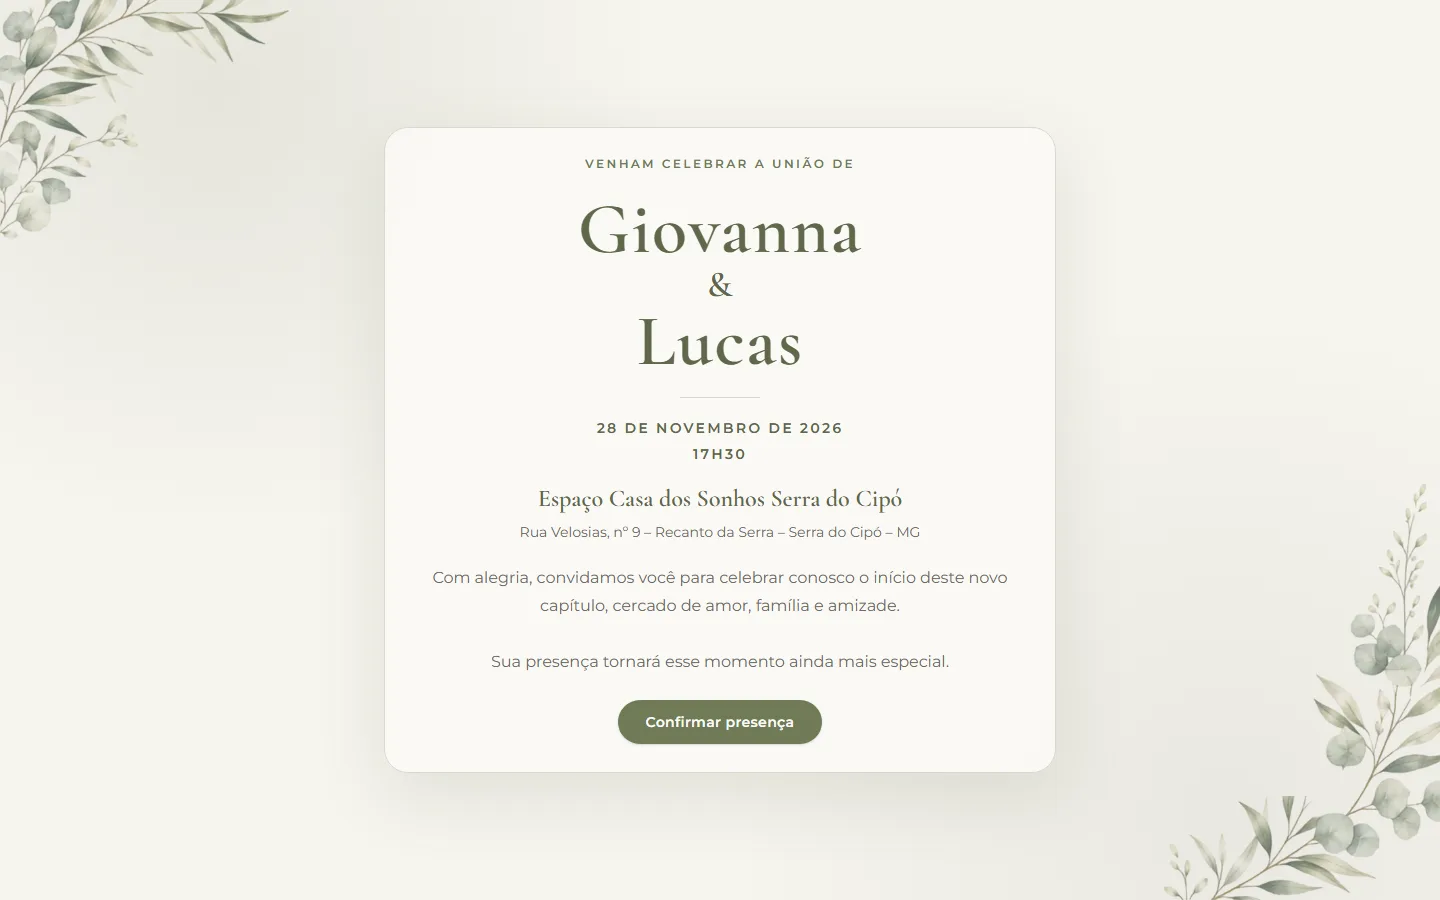
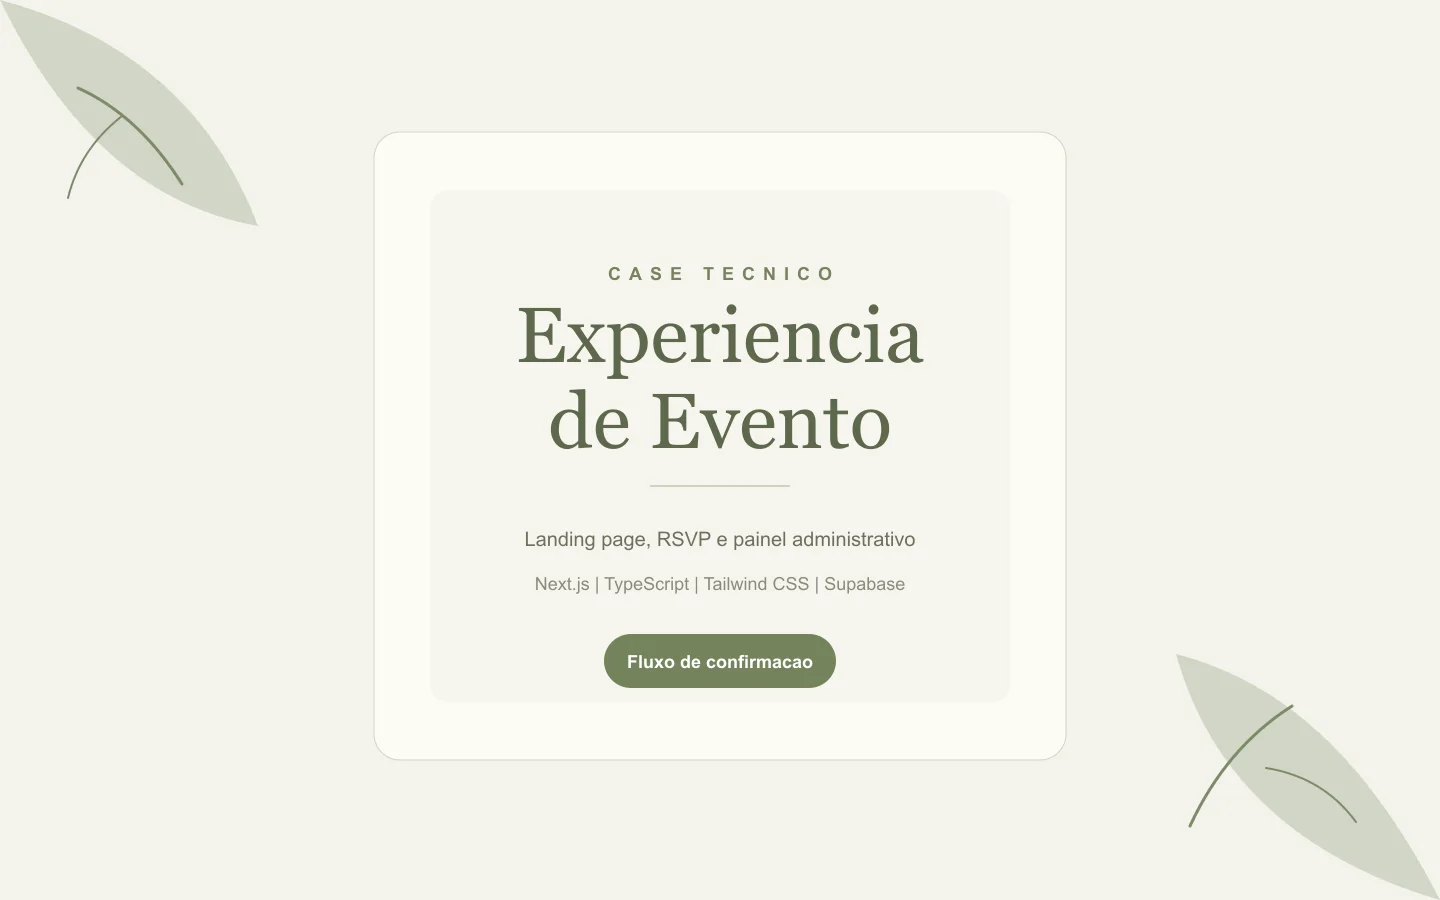
refactor: remove live URL from project details for casamento

diff --git a/src/data/projects.ts b/src/data/projects.ts
@@ -31,7 +31,6 @@ export const projects: Project[] = [
       "Aplicação desenvolvida para centralizar informações do casamento, facilitar a comunicação com convidados e oferecer uma experiência digital personalizada para o evento.",
     image: "/images/projects/casamento.webp",
     technologies: ["Next.js", "TypeScript", "Tailwind CSS", "Supabase"],
-    liveUrl: "https://casamento-giovanna-lucas-websapps.vercel.app",
     feedback: [],
     feedbackPending: true,
     details: {

diff --git a/src/data/projects-en.ts b/src/data/projects-en.ts
@@ -31,7 +31,6 @@ export const projectsEn: Project[] = [
       "Application built to centralize wedding information, simplify communication with guests and provide a personalized digital experience for the event.",
     image: "/images/projects/casamento.webp",
     technologies: ["Next.js", "TypeScript", "Tailwind CSS", "Supabase"],
-    liveUrl: "https://casamento-giovanna-lucas-websapps.vercel.app",
     feedback: [],
     feedbackPending: true,
     details: {
